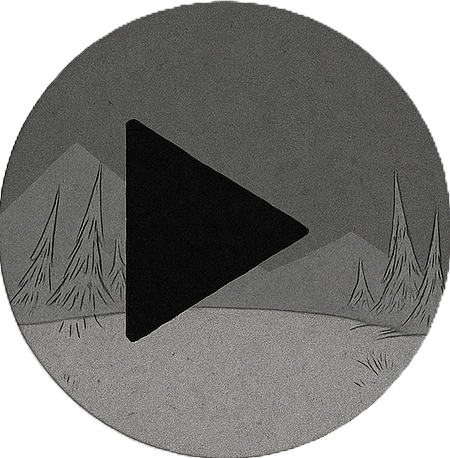
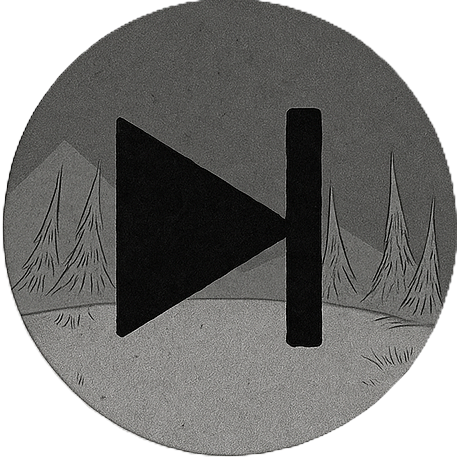
Context return type

diff --git a/app/player/components/PlayerControls.tsx b/app/player/components/PlayerControls.tsx
@@ -1,9 +1,58 @@
-import { useContext } from "react";
+import { MouseEventHandler, useContext } from "react";
 import { PlayerContext } from "@/app/player/hooks/usePlayerLogic";
 import Image from "next/image";
 
+const ControlButtons = ({
+  state,
+  handleClick,
+}: {
+  state: string;
+  handleClick: MouseEventHandler;
+}) => {
+  return (
+    <div className="flex flex-row gap-3">
+      <Image
+        src={`/images/controls/prev.png`}
+        width={50}
+        height={50}
+        alt="play/pause"
+        onClick={handleClick}
+      />
+      <Image
+        src={`/images/controls/${state}.png`}
+        width={50}
+        height={50}
+        alt="play/pause"
+        onClick={handleClick}
+      />
+      <Image
+        src={`/images/controls/next.png`}
+        width={50}
+        height={50}
+        alt="play/pause"
+        onClick={handleClick}
+      />
+    </div>
+  );
+};
+
+const AuthButtons = ({
+  refreshPlayer,
+  authorizeClient,
+}: {
+  refreshPlayer: MouseEventHandler;
+  authorizeClient: MouseEventHandler;
+}) => {
+  return (
+    <div className="flex flex-row gap-3">
+      <button onClick={refreshPlayer}>Refresh</button>
+      <button onClick={authorizeClient}>Authorize</button>
+    </div>
+  );
+};
+
 export default function PlayerControls() {
-  const { authorizeClient, playerRef, playbackData } =
+  const { authorizeClient, playerRef, playerReady, playbackData } =
     useContext(PlayerContext) || {};
 
   const refreshPlayer = () => {
@@ -39,15 +88,14 @@ export default function PlayerControls() {
 
   return (
     <div className="flex flex-row gap-3 mt-[20px]">
-      <Image
-        src={`/images/controls/${state}.png`}
-        width={50}
-        height={50}
-        alt="play/pause"
-        onClick={handleClick}
-      />
-      <button onClick={refreshPlayer}>Refresh</button>
-      <button onClick={authorizeClient}>Authorize</button>
+      {playerReady ? (
+        <ControlButtons state={state} handleClick={handleClick} />
+      ) : (
+        <AuthButtons
+          authorizeClient={authorizeClient}
+          refreshPlayer={refreshPlayer}
+        />
+      )}
     </div>
   );
 }

diff --git a/app/player/hooks/usePlayerLogic.ts b/app/player/hooks/usePlayerLogic.ts
@@ -49,11 +49,15 @@ export type PlayerLogicContextType = {
   setCurrentTrackDuration: (duration: number) => void;
   progressPercent: number;
   setProgressPercent: (percent: number) => void;
+  playerReady: boolean;
+  setPlayerReady: Dispatch<SetStateAction<boolean>>;
   playerRef: RefObject<Spotify.Player | null>;
   intervalRef: RefObject<NodeJS.Timeout | null>;
 };
 
-export const PlayerContext = createContext<PlayerLogicContextType | null>(null);
+export const PlayerContext = createContext(
+  {} as ReturnType<typeof usePlayerLogic>
+);
 
 export default function usePlayerLogic(): PlayerLogicContextType {
   const router = useRouter();
@@ -72,6 +76,7 @@ export default function usePlayerLogic(): PlayerLogicContextType {
   const [currentTrackTime, setCurrentTrackTime] = useState(0);
   const [currentTrackDuration, setCurrentTrackDuration] = useState(0);
   const [progressPercent, setProgressPercent] = useState(0);
+  const [playerReady, setPlayerReady] = useState(false);
   const playerRef = useRef<Spotify.Player | null>(null);
   const intervalRef = useRef(null);
 
@@ -189,10 +194,12 @@ export default function usePlayerLogic(): PlayerLogicContextType {
       // Event listeners
       player.addListener("ready", ({ device_id }) => {
         console.log("Ready with Device ID", device_id);
+        setPlayerReady(true);
       });
 
       player.addListener("not_ready", ({ device_id }) => {
         console.log("Device offline", device_id);
+        setPlayerReady(false);
       });
 
       player.addListener("initialization_error", ({ message }) => {
@@ -257,12 +264,14 @@ export default function usePlayerLogic(): PlayerLogicContextType {
     setCurrentTrackDuration,
     progressPercent,
     setProgressPercent,
-    playerRef,
-    intervalRef,
+    playerReady,
+    setPlayerReady,
     authorizeUrl,
     tokenUrl,
     redirectUri,
     clientId,
     clientSecret,
+    playerRef,
+    intervalRef,
   };
 }

diff --git a/app/player/page.tsx b/app/player/page.tsx
@@ -14,7 +14,7 @@ export default function Player() {
   const contextValue: PlayerLogicContextType = usePlayerLogic();
 
   const { playerScript } = contextValue;
-
+  
   return (
     <PlayerContext.Provider value={contextValue}>
       <div className="grid h-[600px] text-shadow-md text-shadow-amber-50 dark:text-shadow-black">
